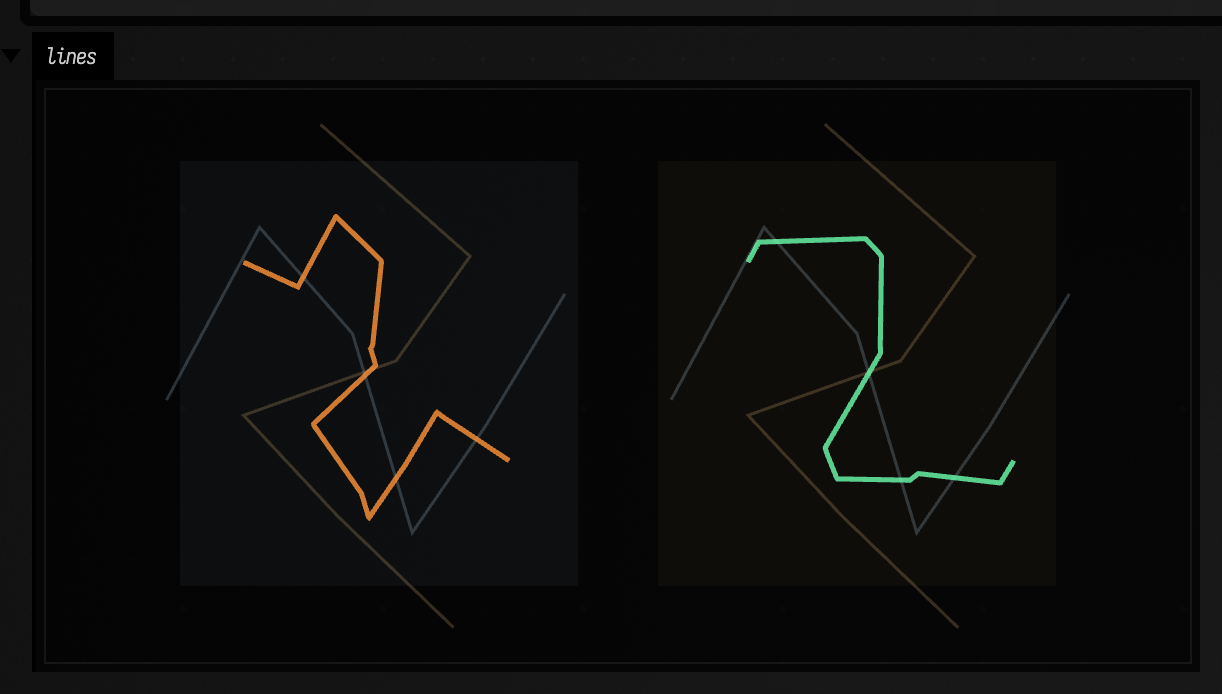
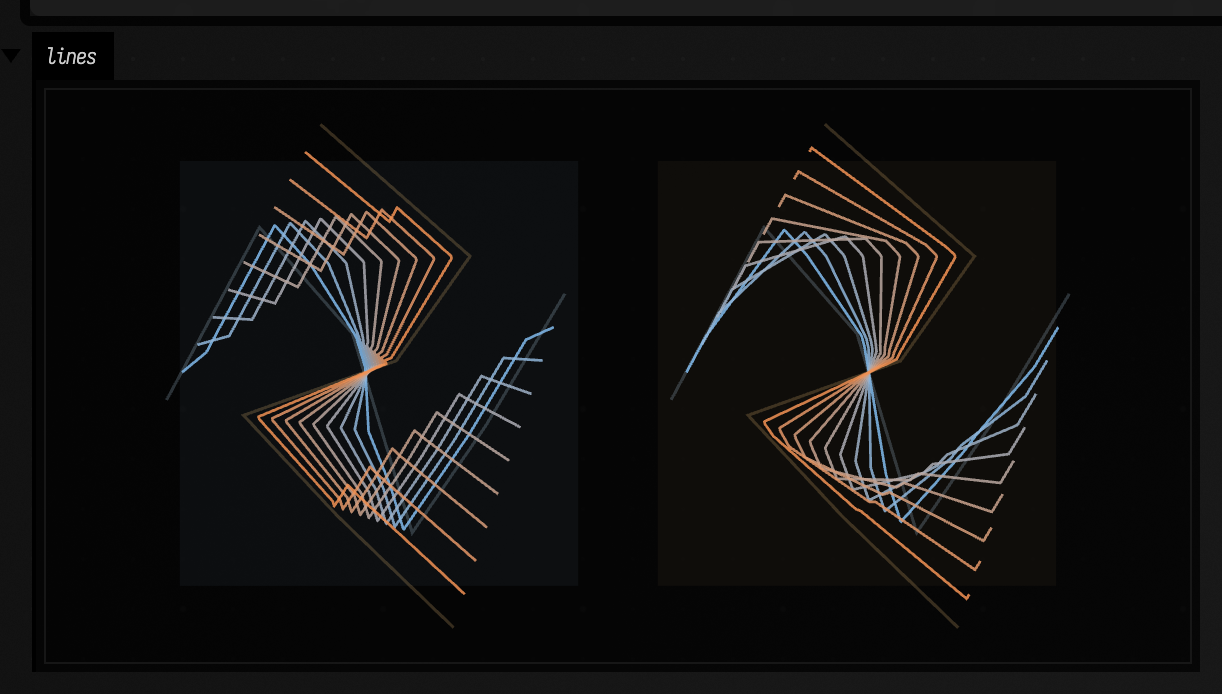
Fit Euler spirals as true G1 clothoids; sweep the rotation-matching example
eulerSpiralBetween3D solved only for length with curvature pinned to zero
at the start, then sheared the leftover endpoint error across every sample,
which bent the start tangent (13.6 degrees off on the docs example). Replace
it with the Bertolazzi-Frego G1 Hermite fit (kappa0, kappa', L via
generalised Fresnel integrals), solved in the plane of the two directions,
with any out-of-plane offset added as a stated linear lift. lengthScale is
now ignored. EulerSpiralFitTest checks endpoint, both tangents, linear
curvature and the lift; it fails on the old solver.

FLine examples "Spicy 1" now draws nine in-betweens (t = 0.1..0.9) per
panel instead of one midpoint.

diff --git a/src/jvmMain/kotlin/afield/geometry/path/FLineGeometry.kt b/src/jvmMain/kotlin/afield/geometry/path/FLineGeometry.kt
@@ -4037,6 +4037,73 @@ private fun signedAngleOnPlane(from: Vec3, to: Vec3, normal: Vec3): Float {
     return atan2(cross.dot(normal), dot)
 }
 
+/**
+ * Generalised Fresnel integral `∫₀¹ exp(i(a/2·t² + b·t + c)) dt`, returned as (real, imaginary).
+ * Composite Simpson in doubles; the fit below keeps |a| small enough that 1024 panels are exact
+ * to well under a float ulp.
+ */
+private fun generalizedFresnel(a: Double, b: Double, c: Double): Pair<Double, Double> {
+    val n = 1024
+    val h = 1.0 / n
+    var re = 0.0
+    var im = 0.0
+    for (k in 0..n) {
+        val t = k * h
+        val w = if (k == 0 || k == n) 1.0 else if (k % 2 == 1) 4.0 else 2.0
+        val phase = 0.5 * a * t * t + b * t + c
+        re += w * cos(phase)
+        im += w * sin(phase)
+    }
+    return Pair(re * h / 3.0, im * h / 3.0)
+}
+
+private fun wrapAngle(a: Double): Double {
+    var x = a
+    while (x > PI) x -= 2 * PI
+    while (x <= -PI) x += 2 * PI
+    return x
+}
+
+/**
+ * Planar G1 Hermite clothoid (Bertolazzi & Frego, "G1 fitting with clothoids", 2015).
+ *
+ * Finds the curve with heading `θ(s) = θ0 + κ·s + ½κ'·s²` that leaves the origin at [theta0]
+ * and reaches ([dx], [dy]) heading [theta0] + `(φ1 − φ0)`. Returns (κ, κ', L), or null when the
+ * Newton solve for the single unknown `A` does not converge.
+ */
+private fun fitClothoidG1(dx: Double, dy: Double, phi0: Double, phi1: Double, maxIterations: Int): Triple<Double, Double, Double>? {
+    val r = hypot(dx, dy)
+    if (r < 1e-12) return null
+    val delta = phi1 - phi0
+    fun g(A: Double) = generalizedFresnel(2 * A, delta - A, phi0).second
+
+    var A = 3.0 * (phi0 + phi1)
+    var converged = false
+    for (i in 0 until maxIterations) {
+        val gA = g(A)
+        if (abs(gA) < 1e-12) { converged = true; break }
+        val h = 1e-6 * max(1.0, abs(A))
+        val dg = (g(A + h) - g(A - h)) / (2 * h)
+        if (abs(dg) < 1e-14) break
+        A -= gA / dg
+    }
+    if (!converged && abs(g(A)) > 1e-9) return null
+
+    val x = generalizedFresnel(2 * A, delta - A, phi0).first
+    if (x <= 1e-12) return null
+    val length = r / x
+    return Triple((delta - A) / length, 2 * A / (length * length), length)
+}
+
+/**
+ * Euler spiral (clothoid) between two points, solved exactly in a plane.
+ *
+ * The plane is the one spanned by the two directions (or the chord, when they are parallel).
+ * Within it the curve meets both endpoints and both projected directions exactly; there is
+ * no residual correction. Any part of `end − start` that leaves that plane is added as a
+ * linear lift along the curve, so in 3D the curve is "planar clothoid plus a ramp" and its
+ * tangents tilt out of the plane by `atan(lift / L)`.
+ */
 private fun eulerSpiralCore3D(
     start: Vec3,
     startDir: Vec3,
@@ -4044,76 +4111,82 @@ private fun eulerSpiralCore3D(
     endDir: Vec3,
     samples: Int,
     iterations: Int,
-    lengthScale: Float,
     headingScale: Float,
     turn: Float
 ): List<Vec3> {
     val frame = buildSpiralFrame(start, end, startDir, endDir)
     val targetVec = Vec3(end).sub(start)
-    val normalOffset = targetVec.dot(frame.n)
-    val baseLength = targetVec.length().coerceAtLeast(1e-5f) * lengthScale
-
-    val startForward = projectOntoPlane(startDir, frame.n).let { d ->
-        if (d.lengthSquared() > 1e-10f) Vec3(d).normalize() else Vec3(frame.u)
-    }
-    val endForward = projectOntoPlane(endDir, frame.n).let { d ->
-        if (d.lengthSquared() > 1e-10f) Vec3(d).normalize() else Vec3(frame.u)
-    }
-
-    val totalTurn = signedAngleOnPlane(startForward, endForward, frame.n) * headingScale + turn
+    val normalOffset = targetVec.dot(frame.n).toDouble()
+    val dx = targetVec.dot(frame.u).toDouble()
+    val dy = targetVec.dot(frame.v).toDouble()
     val sampleCount = max(samples, 2)
 
-    fun integrate(L: Float): List<Vec3> {
-        val pts = ArrayList<Vec3>(sampleCount)
-        val ds = L / (sampleCount - 1).toFloat()
-        val curvatureRate = 2f * totalTurn / (L * L).coerceAtLeast(1e-6f)
-        var orientation = Quaternionf().rotationToField(frame.u, startForward)
-        var posPlane = vec(0f, 0f, 0f)
-        pts.add(Vec3(start))
-        var sAcc = 0f
+    fun headingOf(d: Vec3, fallback: Double): Double {
+        val a = d.dot(frame.u).toDouble()
+        val b = d.dot(frame.v).toDouble()
+        return if (a * a + b * b > 1e-20) atan2(b, a) else fallback
+    }
 
-        for (i in 1 until sampleCount) {
-            val curvature = curvatureRate * sAcc
-            val deltaQuat = Quaternionf().setAngleAxis(curvature * ds, frame.n.x, frame.n.y, frame.n.z)
-            orientation = Quaternionf(deltaQuat).mul(orientation)
-            val forward = frame.u * orientation
-            posPlane = Vec3(posPlane).add(Vec3(forward).mul(ds))
+    val chordAngle = atan2(dy, dx)
+    val theta0 = headingOf(startDir, chordAngle)
+    val theta1 = headingOf(endDir, chordAngle)
+    val phi0 = wrapAngle(theta0 - chordAngle)
+    val phi1 = wrapAngle(phi0 + wrapAngle(theta1 - theta0) * headingScale) + turn
 
-            val t = i.toFloat() / (sampleCount - 1)
-            val normalDelta = Vec3(frame.n).mul(normalOffset * t)
-            pts.add(Vec3(start).add(posPlane).add(normalDelta))
-            sAcc += ds
+    val fit = fitClothoidG1(dx, dy, phi0, phi1, max(iterations, 40))
+        ?: return List(sampleCount) { i ->
+            Vec3(start).add(Vec3(targetVec).mul(i.toFloat() / (sampleCount - 1)))
         }
-        return pts
+    val (kappa, kappaPrime, length) = fit
+
+    fun heading(s: Double) = theta0 + kappa * s + 0.5 * kappaPrime * s * s
+
+    val pts = ArrayList<Vec3>(sampleCount)
+    pts.add(Vec3(start))
+    val ds = length / (sampleCount - 1)
+    var x = 0.0
+    var y = 0.0
+    for (i in 1 until sampleCount) {
+        // Simpson over [s0, s0 + ds] with 8 panels.
+        val s0 = (i - 1) * ds
+        val panels = 8
+        val hh = ds / panels
+        var cx = 0.0
+        var cy = 0.0
+        for (k in 0..panels) {
+            val w = if (k == 0 || k == panels) 1.0 else if (k % 2 == 1) 4.0 else 2.0
+            val th = heading(s0 + k * hh)
+            cx += w * cos(th)
+            cy += w * sin(th)
+        }
+        x += cx * hh / 3.0
+        y += cy * hh / 3.0
+        val t = i.toDouble() / (sampleCount - 1)
+        val p = Vec3(start)
+            .add(Vec3(frame.u).mul(x.toFloat()))
+            .add(Vec3(frame.v).mul(y.toFloat()))
+            .add(Vec3(frame.n).mul((normalOffset * t).toFloat()))
+        pts.add(p)
     }
-
-    fun endpoint(L: Float): Vec3 = integrate(L).last()
-
-    var length = baseLength
-    var pts = integrate(length)
-    repeat(iterations) {
-        val err = Vec3(pts.last()).sub(end)
-        if (err.lengthSquared() < 1e-10f) return@repeat
-
-        val eps = (length * 1e-3f).coerceAtLeast(1e-4f)
-        val endNext = endpoint(length + eps)
-        val deriv = Vec3(endNext).sub(pts.last()).mul(1f / eps)
-        val denom = deriv.lengthSquared().coerceAtLeast(1e-12f)
-        val step = err.dot(deriv) / denom
-
-        length = (length - step).coerceAtLeast(1e-4f)
-        pts = integrate(length)
-    }
-
-    val residual = Vec3(end).sub(pts.last())
-    return pts.mapIndexed { i, p ->
-        val t = if (pts.size <= 1) 0f else i.toFloat() / (pts.size - 1)
-        Vec3(p).add(Vec3(residual).mul(t))
-    }
+    // Float rounding only: the integration is exact to ~1e-9 of the chord.
+    pts[pts.lastIndex] = Vec3(end)
+    return pts
 }
 
 /**
- * Build a 3D Euler spiral between two points with specified directions.
+ * Build an Euler spiral (clothoid) from [start] to [end] that leaves along [startDirection]
+ * and arrives along [endDirection].
+ *
+ * The curve is solved exactly in the plane of the two directions: both endpoints and both
+ * directions (projected into that plane) are met, and curvature changes linearly with arc
+ * length. If [end] is out of that plane, the difference is added as a linear lift, so the
+ * 3D tangents tilt by the lift's slope.
+ *
+ * @param samples number of points in the returned polyline
+ * @param iterations maximum Newton iterations for the fit (at least 40 are always used)
+ * @param lengthScale ignored: a clothoid meeting both ends is unique; kept for source compatibility
+ * @param headingScale scales the turn from start to end direction (1 meets [endDirection])
+ * @param turn extra heading, in radians, added at the end (2π adds a loop)
  */
 fun eulerSpiralBetween3D(
     start: Vec3,
@@ -4133,7 +4206,6 @@ fun eulerSpiralBetween3D(
         endDir = endDirection,
         samples = samples,
         iterations = iterations,
-        lengthScale = lengthScale,
         headingScale = headingScale,
         turn = turn
     )

diff --git a/src/jvmTest/kotlin/afield/geometry/path/EulerSpiralFitTest.kt b/src/jvmTest/kotlin/afield/geometry/path/EulerSpiralFitTest.kt
@@ -1,0 +1,84 @@
+package afield.geometry.path
+
+import afield.math.linalg.Vec3
+import afield.math.linalg.vec
+import kotlin.math.abs
+import kotlin.math.acos
+import kotlin.test.Test
+import kotlin.test.assertTrue
+
+/**
+ * `eulerSpiralBetween3D` must meet both endpoints and both directions. The previous solver fitted
+ * only the length, then sheared the leftover endpoint error across every sample; the docs capture
+ * looked plausible while the start tangent was about 15° off. These tests measure the tangents.
+ */
+class EulerSpiralFitTest {
+
+    private fun points(line: FLine): List<Vec3> = line.nodes.map { Vec3(it.to) }
+
+    private fun angleDeg(a: Vec3, b: Vec3): Double {
+        val c = (Vec3(a).normalize().dot(Vec3(b).normalize())).toDouble().coerceIn(-1.0, 1.0)
+        return Math.toDegrees(acos(c))
+    }
+
+    private fun checkFit(start: Vec3, startDir: Vec3, end: Vec3, endDir: Vec3, label: String) {
+        val pts = points(eulerSpiralBetween3D(start, startDir, end, endDir, samples = 400))
+        val chord = Vec3(end).sub(start).length()
+
+        val startGap = Vec3(pts.first()).sub(start).length()
+        assertTrue(startGap < 1e-4f * chord, "$label: starts $startGap away from start")
+
+        // The last sample is snapped to `end`; the one before it shows whether the curve really got there.
+        val approach = Vec3(pts[pts.lastIndex - 1]).sub(pts.last()).length()
+        val step = Vec3(pts[1]).sub(pts[0]).length()
+        assertTrue(approach < 1.5f * step, "$label: second-to-last sample is $approach from end (step $step)")
+
+        val startTangent = Vec3(pts[1]).sub(pts[0])
+        val endTangent = Vec3(pts.last()).sub(pts[pts.lastIndex - 1])
+        val startErr = angleDeg(startTangent, startDir)
+        val endErr = angleDeg(endTangent, endDir)
+        assertTrue(startErr < 1.0, "$label: start tangent off by $startErr°")
+        assertTrue(endErr < 1.0, "$label: end tangent off by $endErr°")
+    }
+
+    @Test
+    fun docsExampleMeetsBothTangents() {
+        checkFit(vec(60f, 180f, 0f), vec(1f, 0f, 0f), vec(360f, 120f, 0f), vec(-0.2f, -1f, 0f), "docs example")
+    }
+
+    @Test
+    fun sCurveAndUTurnMeetBothTangents() {
+        checkFit(vec(0f, 0f, 0f), vec(0f, 1f, 0f), vec(100f, 0f, 0f), vec(0f, 1f, 0f), "S-ish, parallel directions")
+        checkFit(vec(0f, 0f, 0f), vec(1f, 0f, 0f), vec(0f, 50f, 0f), vec(-1f, 0f, 0f), "U-turn")
+        checkFit(vec(0f, 0f, 0f), vec(1f, 1f, 0f), vec(100f, 0f, 0f), vec(1f, 1f, 0f), "S-curve")
+        checkFit(vec(0f, 0f, 0f), vec(1f, 0f, 0f), vec(100f, 0f, 0f), vec(1f, 0f, 0f), "straight line")
+    }
+
+    @Test
+    fun curvatureChangesLinearly() {
+        val pts = points(eulerSpiralBetween3D(vec(0f, 0f, 0f), vec(1f, 0f, 0f), vec(200f, 80f, 0f), vec(0f, 1f, 0f), samples = 201))
+        // Discrete heading change per step is κ·ds; for a clothoid its second difference is constant.
+        val headings = (1 until pts.size).map {
+            val d = Vec3(pts[it]).sub(pts[it - 1])
+            kotlin.math.atan2(d.y.toDouble(), d.x.toDouble())
+        }
+        val turns = (1 until headings.size).map { headings[it] - headings[it - 1] }
+        val accel = (1 until turns.size).map { turns[it] - turns[it - 1] }
+        val mean = accel.average()
+        val worst = accel.maxOf { abs(it - mean) }
+        val scale = turns.maxOf { abs(it) }
+        assertTrue(worst < 0.02 * scale, "curvature is not linear in arc length: deviation $worst vs turn scale $scale")
+    }
+
+    @Test
+    fun outOfPlaneEndIsReachedByALinearLift() {
+        val start = vec(0f, 0f, 0f)
+        val end = vec(100f, 40f, 30f)
+        val pts = points(eulerSpiralBetween3D(start, vec(1f, 0f, 0f), end, vec(0f, 1f, 0f), samples = 300))
+        val approach = Vec3(pts[pts.lastIndex - 1]).sub(pts.last()).length()
+        val step = Vec3(pts[1]).sub(pts[0]).length()
+        assertTrue(approach < 1.5f * step, "lifted curve does not arrive at end: $approach (step $step)")
+        val zSteps = (1 until pts.size).map { pts[it].z - pts[it - 1].z }
+        assertTrue(zSteps.maxOf { abs(it - zSteps.first()) } < 1e-3f, "lift is not linear")
+    }
+}

diff --git a/public/docs/fline_examples.md b/public/docs/fline_examples.md
@@ -2794,31 +2794,27 @@ val end =
         .byScaling2D(0.78f, 1.24f, center = vec(0f, 0f))
         .byShearing2D(0.18f, -0.08f)
 
-val vanillaMid = start.interpolatorTo(end).lineAt(0.5f).apply {
-    filled = false
-    stroked = true
-    thickness = 3.0
-    color = vec(1.0, 0.58, 0.22, 0.8)
-}
+val vanilla = start.interpolatorTo(end)
+val aligned = start.interpolatorTo(
+    end,
+    config = FLineInterpolationConfig(
+        alignment = FLineInterpolationAlignment(
+            rotationMode = FLineInterpolationRotationMode.FIT_LINE_2D,
+            scaleMode = FLineInterpolationScaleMode.BOUNDS_DIAGONAL,
+        ),
+    ),
+)
 
-val alignedMid =
-    start
-        .interpolatorTo(
-            end,
-            config = FLineInterpolationConfig(
-                alignment = FLineInterpolationAlignment(
-                    rotationMode = FLineInterpolationRotationMode.FIT_LINE_2D,
-                    scaleMode = FLineInterpolationScaleMode.BOUNDS_DIAGONAL,
-                ),
-            ),
-        )
-        .lineAt(0.5f)
-        .apply {
-            filled = false
-            stroked = true
-            thickness = 3.0
-            color = vec(0.42, 1.0, 0.68, 0.8)
-        }
+// Nine in-between shapes, t = 0.1 ... 0.9, shaded from the start's blue to the end's orange.
+fun sweep(interpolator: FLineInterpolator) = (1..9).map { i ->
+    val t = i / 10f
+    interpolator.lineAt(t).apply {
+        filled = false
+        stroked = true
+        thickness = 1.6
+        color = vec(0.45 + 0.55 * t, 0.75 - 0.2 * t, 1.0 - 0.75 * t, 0.85)
+    }
+}
 
 fun ghost(line: FLine, tint: Vec4) = line.copy().apply {
     filled = false
@@ -2848,17 +2844,15 @@ val panels = [
 val alignedLines: List<FLine> = [
     ghost(start, vec(0.76, 0.9, 1.0, 0.20)) + leftShift,
     ghost(end, vec(1.0, 0.8, 0.5, 0.20)) + leftShift,
-    vanillaMid + leftShift,
     ghost(start, vec(0.76, 0.9, 1.0, 0.20)) + rightShift,
     ghost(end, vec(1.0, 0.8, 0.5, 0.20)) + rightShift,
-    alignedMid + rightShift,
-]
+] + sweep(vanilla).map { it + leftShift } + sweep(aligned).map { it + rightShift }
 val comparison = panels + alignedLines
 
 lines(comparison, w = 720.0, h = 360.0, fitToSize = true)
 ```
 
-Left is the default midpoint. Right pre-aligns the shapes before correspondence using `FIT_LINE_2D`, which is much better once the target has been rotated and rescaled.
+Both panels show nine in-between shapes from `t = 0.1` (blue) to `t = 0.9` (orange). On the left, the default interpolator moves each point straight to its partner, so the in-between shapes zigzag and collapse toward the centre as they cut across the rotation. On the right, `FIT_LINE_2D` aligns the shapes before matching points, so the in-between strokes sweep around more smoothly, though they still pinch near the centre.
 
 #### Spicy 2: extra motion at evaluation time
 
@@ -2941,7 +2935,7 @@ These are more specialized tools that are still extremely useful when you need t
 
 ### Euler spiral in 3D (clothoid-ish connection)
 
-This builds a smooth-ish curve between two points with start/end direction constraints in 3D. It’s great for “motion paths” and connecting strokes while controlling how the heading evolves.
+This builds the curve between two points that leaves along one direction and arrives along another, with curvature changing at a constant rate along its length. It’s good for motion paths and for joining strokes without a kink. The curve is solved in the plane of the two directions; if the end point is out of that plane, the curve climbs to it at a constant slope.
 
 ```diffstatic {data-lang=kotlin}
 :::static
